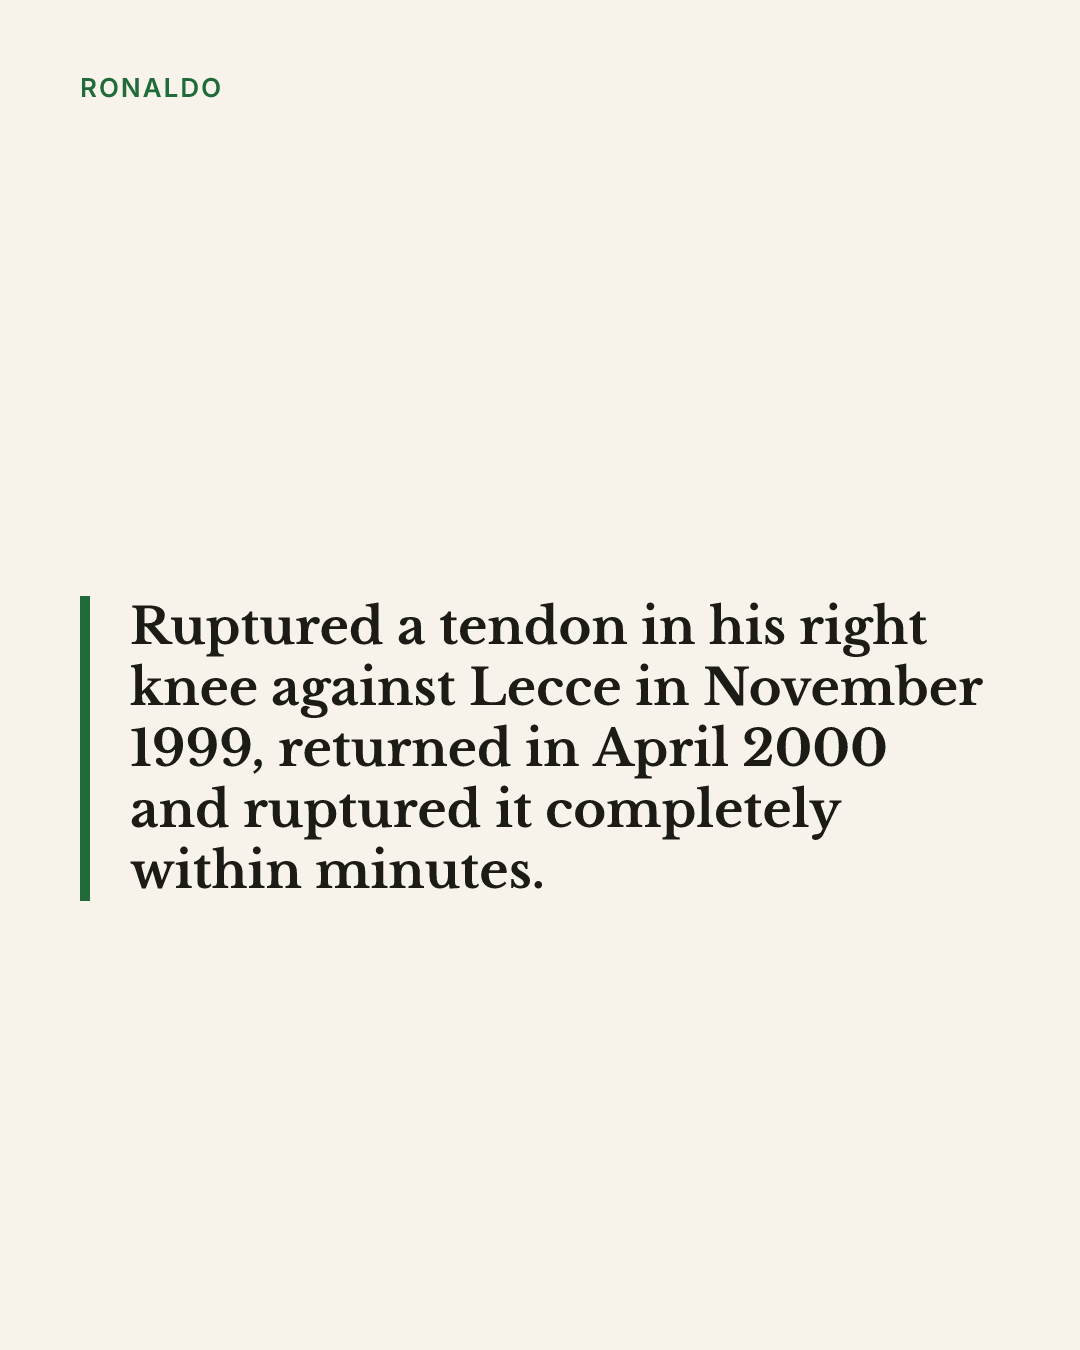
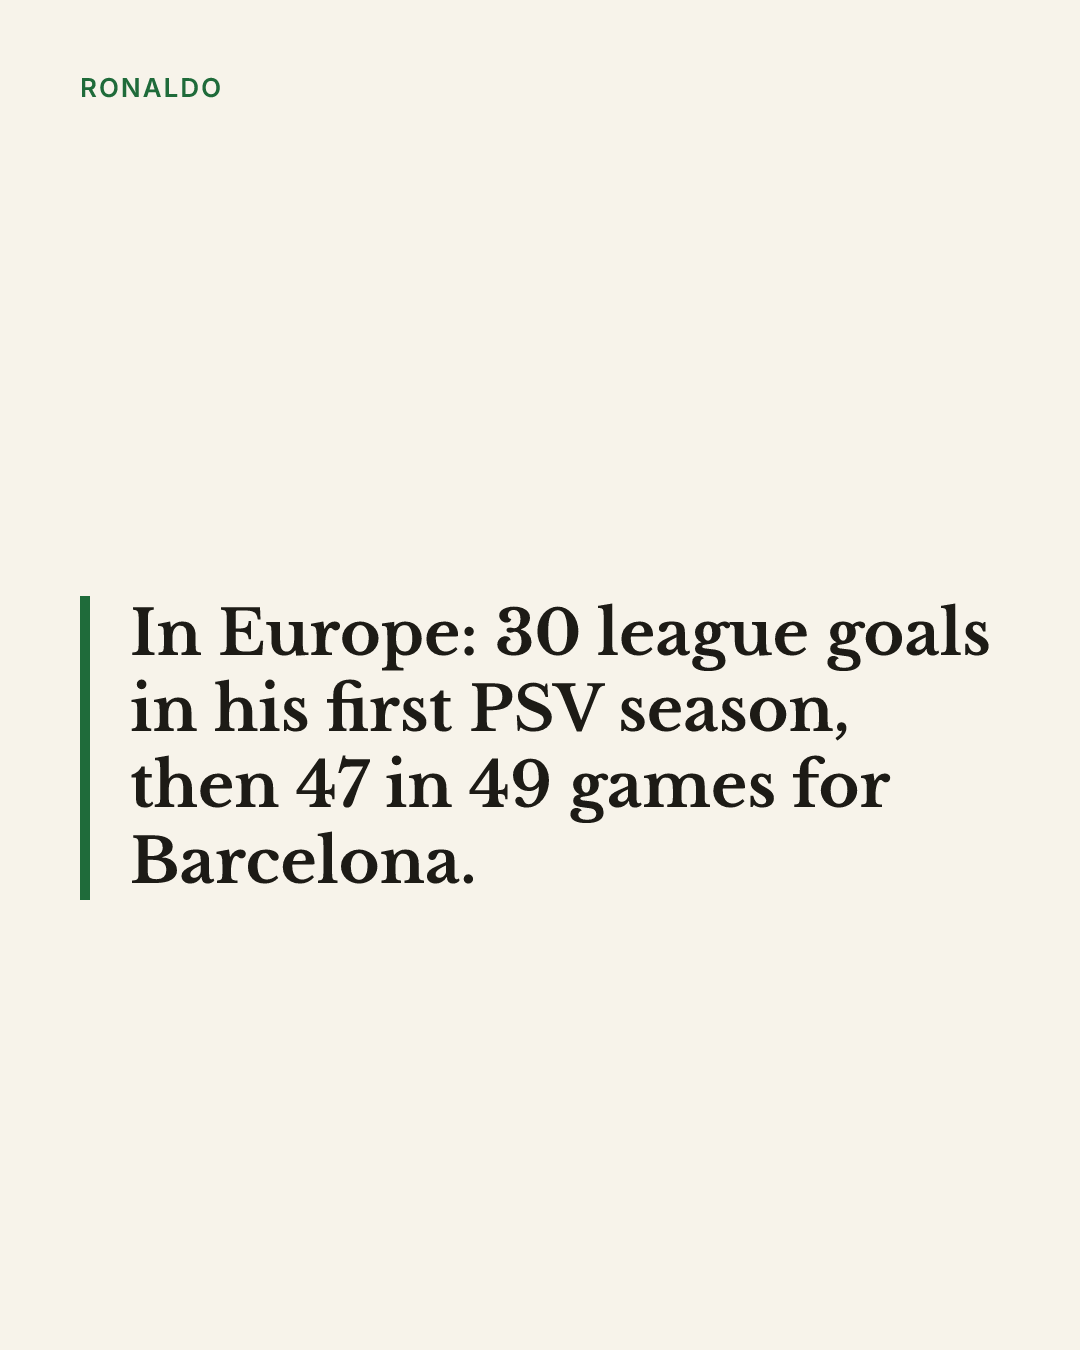
Instagram: 7-card carousel with the Facebook text; cards match the story
The carousel is back (cover, five fact cards, closing card) and its caption is the
same full text as the Facebook post. Each fact card now restates something the body
says, in story order; story 001's facts are rewritten to match its tightened text.

Claude-Session: https://claude.ai/code/session_01KFrvz6d1CHFi9rozrKkMUw

Changed region(s): [[0.1222, 0.4356, 0.9167, 0.6844]]

diff --git a/scripts/lib/social-post.ts b/scripts/lib/social-post.ts
@@ -1,6 +1,6 @@
 import type { LoadedStory } from './stories';
 import { INSTAGRAM_LIMIT, socialPosts } from './social';
-import { metaConfigured, postFacebookPhoto, postInstagramImage, postThreads, waitForUrl } from './meta';
+import { metaConfigured, postFacebookPhoto, postInstagramCarousel, postThreads, waitForUrl } from './meta';
 import { absoluteUrl } from '../../src/lib/url';
 import { pad3 } from '../../src/schema/story';
 
@@ -18,12 +18,14 @@ export async function postStoryToSocials(
   const configured = metaConfigured();
   const n = pad3(story.data.number);
   const heroUrl = absoluteUrl(`/images/derived/${n}-fb.png`); // the headline card for Facebook
+  // The Instagram carousel: the cover, one card per fact, and the closing card.
+  const cardUrls = Array.from({ length: story.data.facts.length + 2 }, (_, i) => absoluteUrl(`/images/derived/${n}-ig-${String(i + 1).padStart(2, '0')}.png`));
   const out: Outcome[] = [];
 
   for (const network of networks) {
     try {
       if (opts.dryRun) {
-        const urls = network === 'facebook' ? [heroUrl] : network === 'instagram' ? [heroUrl] : [];
+        const urls = network === 'facebook' ? [heroUrl] : network === 'instagram' ? cardUrls : [];
         for (const u of urls) await waitForUrl(u, 1, 0); // in a dry run, still prove every picture is live
         const text = network === 'facebook' ? posts.facebook : network === 'instagram' ? posts.instagram : posts.threads;
         const over = network === 'instagram' && text.length > INSTAGRAM_LIMIT ? `; TOO LONG for Instagram by ${text.length - INSTAGRAM_LIMIT}` : '';
@@ -45,8 +47,8 @@ export async function postStoryToSocials(
         out.push({ network, status: opts.scheduleAt ? 'drafted' : opts.draft ? 'drafted' : 'posted', detail: `${opts.scheduleAt ? `scheduled for ${opts.scheduleAt.toISOString()}` : opts.draft ? 'draft' : 'post'} ${id} (short id ${id.split('_')[1] ?? id})` });
       } else if (network === 'instagram') {
         if (posts.instagram.length > INSTAGRAM_LIMIT) throw new Error(`text is ${posts.instagram.length - INSTAGRAM_LIMIT} characters over Instagram's ${INSTAGRAM_LIMIT} limit; tighten the story, nothing was posted`);
-        await waitForUrl(heroUrl);
-        out.push({ network, status: 'posted', detail: `media ${await postInstagramImage({ imageUrl: heroUrl, caption: posts.instagram })}` });
+        for (const u of cardUrls) await waitForUrl(u);
+        out.push({ network, status: 'posted', detail: `media ${await postInstagramCarousel({ imageUrls: cardUrls, caption: posts.instagram })}` });
       } else {
         out.push({ network, status: 'posted', detail: `thread ${await postThreads({ text: posts.threads, reply: posts.threadsReply || undefined })}` });
       }

diff --git a/scripts/lib/meta.ts b/scripts/lib/meta.ts
@@ -90,23 +90,6 @@ export async function postFacebookPhoto(a: { imageUrl: string; message: string; 
   return String(post.id);
 }
 
-/** A single-picture Instagram post. */
-export async function postInstagramImage(a: { imageUrl: string; caption: string }, env = process.env): Promise<string> {
-  const ig = env.META_IG_USER_ID;
-  const direct = Boolean(env.INSTAGRAM_ACCESS_TOKEN?.trim());
-  const base = direct ? INSTAGRAM : GRAPH;
-  const token = (direct ? env.INSTAGRAM_ACCESS_TOKEN : env.META_PAGE_ACCESS_TOKEN)!;
-  const container = await call(`${base}/${ig}/media`, { image_url: a.imageUrl, caption: a.caption, access_token: token });
-  for (let i = 0; i < 20; i++) {
-    const s = await call(`${base}/${container.id}`, { fields: 'status_code', access_token: token }, 'GET');
-    if (s.status_code === 'FINISHED') break;
-    if (s.status_code === 'ERROR' || s.status_code === 'EXPIRED') throw new Error(`Instagram container ${s.status_code}`);
-    await sleep(3000);
-  }
-  const published = await call(`${base}/${ig}/media_publish`, { creation_id: container.id, access_token: token });
-  return String(published.id);
-}
-
 /** An Instagram carousel (2 to 10 images). */
 export async function postInstagramCarousel(a: { imageUrls: string[]; caption: string }, env = process.env): Promise<string> {
   const ig = env.META_IG_USER_ID;

diff --git a/scripts/lib/social.ts b/scripts/lib/social.ts
@@ -102,7 +102,7 @@ export function socialPosts(story: LoadedStory, ctx: { kind: 'scheduled' | 'arch
     .replace(/\n{3,}/g, '\n\n')
     .trim();
 
-  // Instagram carries the same text as Facebook, with the same picture. It is never cut: if it is over
+  // Instagram carries the same text as Facebook, under the carousel. It is never cut: if it is over
   // Instagram's 2,200-character limit, posting stops and says by how much, so the story can be tightened.
   const instagram = facebook;
 
@@ -135,11 +135,11 @@ export function socialMarkdown(story: LoadedStory, ctx: SocialContext): string {
 
 ${facebook}
 
-## Instagram (the same text and picture as Facebook: social/cards/${pad3(story.data.number)}-fb.png)
+## Instagram (carousel: the cards listed below, in order; the same text as Facebook)
 
 ${instagram}
 
-${instagram.length > INSTAGRAM_LIMIT ? `**Too long for Instagram by ${instagram.length - INSTAGRAM_LIMIT} characters (limit ${INSTAGRAM_LIMIT}).**\n\n` : ''}Alt text: ${story.data.hero.alt}
+${instagram.length > INSTAGRAM_LIMIT ? `**Too long for Instagram by ${instagram.length - INSTAGRAM_LIMIT} characters (limit ${INSTAGRAM_LIMIT}).**\n\n` : ''}Alt text for the carousel: ${story.data.hero.alt}
 
 ## Threads (post the hook and facts, then the Instagram page as a reply)
 

diff --git a/scripts/validate.ts b/scripts/validate.ts
@@ -16,8 +16,8 @@ for (const s of stories) {
   if (social > INSTAGRAM_LIMIT) {
     warnings.push(`${s.file}: the Facebook and Instagram text is ${social} characters, over Instagram's ${INSTAGRAM_LIMIT}; Instagram will refuse it`);
   }
-  if (s.data.facts.length > 0 && s.data.facts.length < 3) {
-    warnings.push(`${s.file}: only ${s.data.facts.length} fact(s); the Threads post and Instagram carousel work best with 3 to 5`);
+  if (s.data.facts.length !== 5) {
+    warnings.push(`${s.file}: ${s.data.facts.length} fact(s); the 7-card Instagram carousel needs exactly 5`);
   }
   if (!s.data.question) {
     warnings.push(`${s.file}: no reader question; the Facebook caption will end without one`);

diff --git a/src/schema/story.ts b/src/schema/story.ts
@@ -67,7 +67,7 @@ export const storySchema = z.object({
   sources: z.array(z.string().trim().min(1)).min(1, 'at least one source is required'),
   /** The one-line question to the reader that closes the story. */
   question: z.string().trim().min(1).optional(),
-  /** Three to six short facts for the Threads post and the Instagram carousel. */
+  /** Five short facts, one per Instagram carousel card, each restating something the body says. */
   facts: z.array(z.string().trim().min(1)).max(6).default([]),
   draft: z.boolean().default(false),
 });

diff --git a/docs/drafting-brief.md b/docs/drafting-brief.md
@@ -36,7 +36,8 @@ three digits). Copy the front matter shape from
   or place, main object first, no people, no text. It is painted as a watercolour automatically.
 - `sources`: three to eight, books as "Author, Title (Publisher, year)", web sources as full URLs you actually opened
 - `question`: one line to the reader, ends the story
-- `facts`: three to five standalone facts for the Instagram carousel, each true and sourced
+- `facts`: exactly five, one per carousel card (cover, five fact cards, closing card makes seven). Each restates
+  something the body says, in the order the story tells it, at most 110 characters, with nothing the body leaves out
 
 ## The body (about 380 to 400 words)
 
@@ -81,8 +82,8 @@ anything changed or cut. This is the audit trail; the owner never has to read it
 ## Social banner line (required for every story)
 
 Each story needs one extra front-matter line, `hook`: a punchy line of 100 characters or fewer, written from the story itself with no new facts.
-It is the banner on the Facebook and Instagram picture.
+It is the banner on the Facebook picture and the Instagram cover.
 Example: "He won the World Cup on two rebuilt knees."
 
-The Facebook post and the Instagram caption are the whole story, with the same picture (the Facebook card). The tooling moves "Here's what I didn't know until recently." up so it begins within the first
+The Facebook post and the Instagram caption are the whole story; Instagram shows it under the 7-card carousel. The tooling moves "Here's what I didn't know until recently." up so it begins within the first
 230 characters, ahead of Facebook's "See more", and the remaining sentences of the opening follow it. Nothing is cut.

diff --git a/social/001.md b/social/001.md
@@ -1,6 +1,6 @@
 # Story No. 001 · Ronaldo / The World Cup he won on two rebuilt knees
 
-- Sent: 2026-10-19T15:11:09.232Z (scheduled)
+- Sent: 2026-10-19T15:12:47.080Z (scheduled)
 - Web page (for your reference only, do not post): https://immigrationlabsg.github.io/football-stories-101/stories/ronaldo-r9-two-rebuilt-knees/ (live)
 - Hero: public/images/stories/001-ronaldo-r9.jpg
 - Hero alt text: Watercolour painting of Ronaldo in Brazil's yellow shirt and blue shorts, celebrating with his arms spread
@@ -49,7 +49,7 @@ _____
 
 Football is full of stories nobody told you. I write one up every morning. Follow Football Stories 101.
 
-## Instagram (the same text and picture as Facebook: social/cards/001-fb.png)
+## Instagram (carousel: the cards listed below, in order; the same text as Facebook)
 
 On 12 April 2000, Ronaldo came off the bench in Rome. It was his first match since November.
 
@@ -93,7 +93,7 @@ _____
 
 Football is full of stories nobody told you. I write one up every morning. Follow Football Stories 101.
 
-Alt text: Watercolour painting of Ronaldo in Brazil's yellow shirt and blue shorts, celebrating with his arms spread
+Alt text for the carousel: Watercolour painting of Ronaldo in Brazil's yellow shirt and blue shorts, celebrating with his arms spread
 
 ## Threads (post the hook and facts, then the Instagram page as a reply)
 

diff --git a/docs/editorial-standards.md b/docs/editorial-standards.md
@@ -69,8 +69,12 @@ says so publicly.
 ## Social banner line (required for every story)
 
 Each story needs one extra front-matter line, `hook`: a punchy line of 100 characters or fewer, written from the story itself with no new facts.
-It is the banner on the Facebook and Instagram picture.
+It is the banner on the Facebook picture and the Instagram cover.
+
+The Instagram carousel is seven cards: the cover, five fact cards from the `facts` field, and a closing card with the
+question. Each fact restates something the body says, in story order, at most 110 characters, so the cards always
+match the post. The caption is the same text as the Facebook post.
 Example: "He won the World Cup on two rebuilt knees."
 
-The Facebook post and the Instagram caption are the whole story, with the same picture (the Facebook card). The tooling moves "Here's what I didn't know until recently." up so it begins within the first
+The Facebook post and the Instagram caption are the whole story; Instagram shows it under the 7-card carousel. The tooling moves "Here's what I didn't know until recently." up so it begins within the first
 230 characters, ahead of Facebook's "See more", and the remaining sentences of the opening follow it. Nothing is cut.
